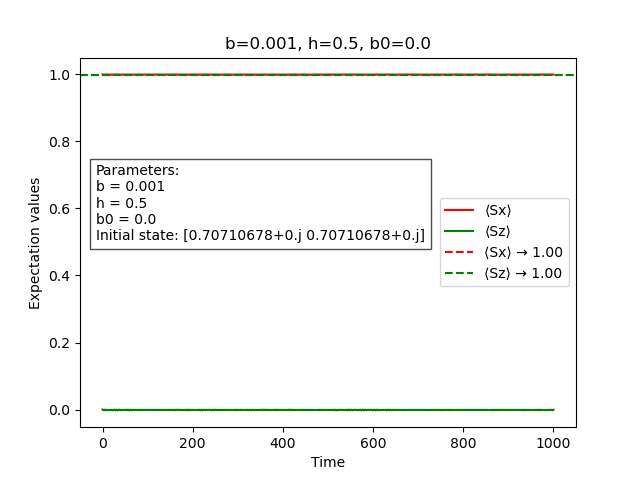
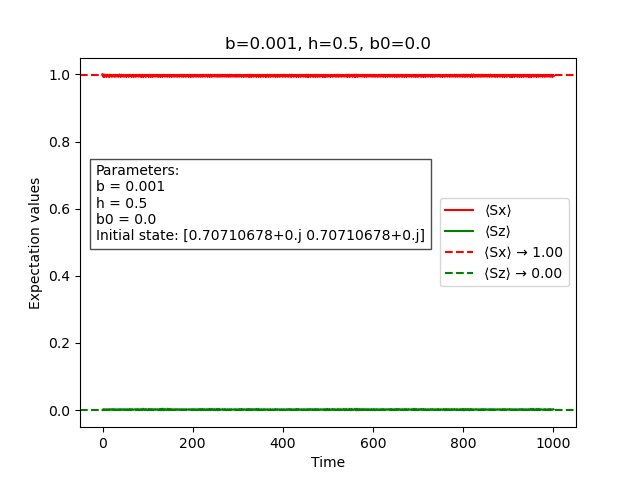
more

diff --git a/tip.py b/tip.py
@@ -85,8 +85,8 @@ def simulate(parameters):
     nz0 = b / (b + h)
 
     sn0 = sx * nx0 + sz * nz0
-    sx_inf = expect(sn0, psi0)
-    sz_inf = expect(sn0, psi0)
+    sx_inf = nx0 * expect(sx, psi0)
+    sz_inf = nz0 * expect(sz, psi0)
 
     # Plot the results
     plt.figure()
